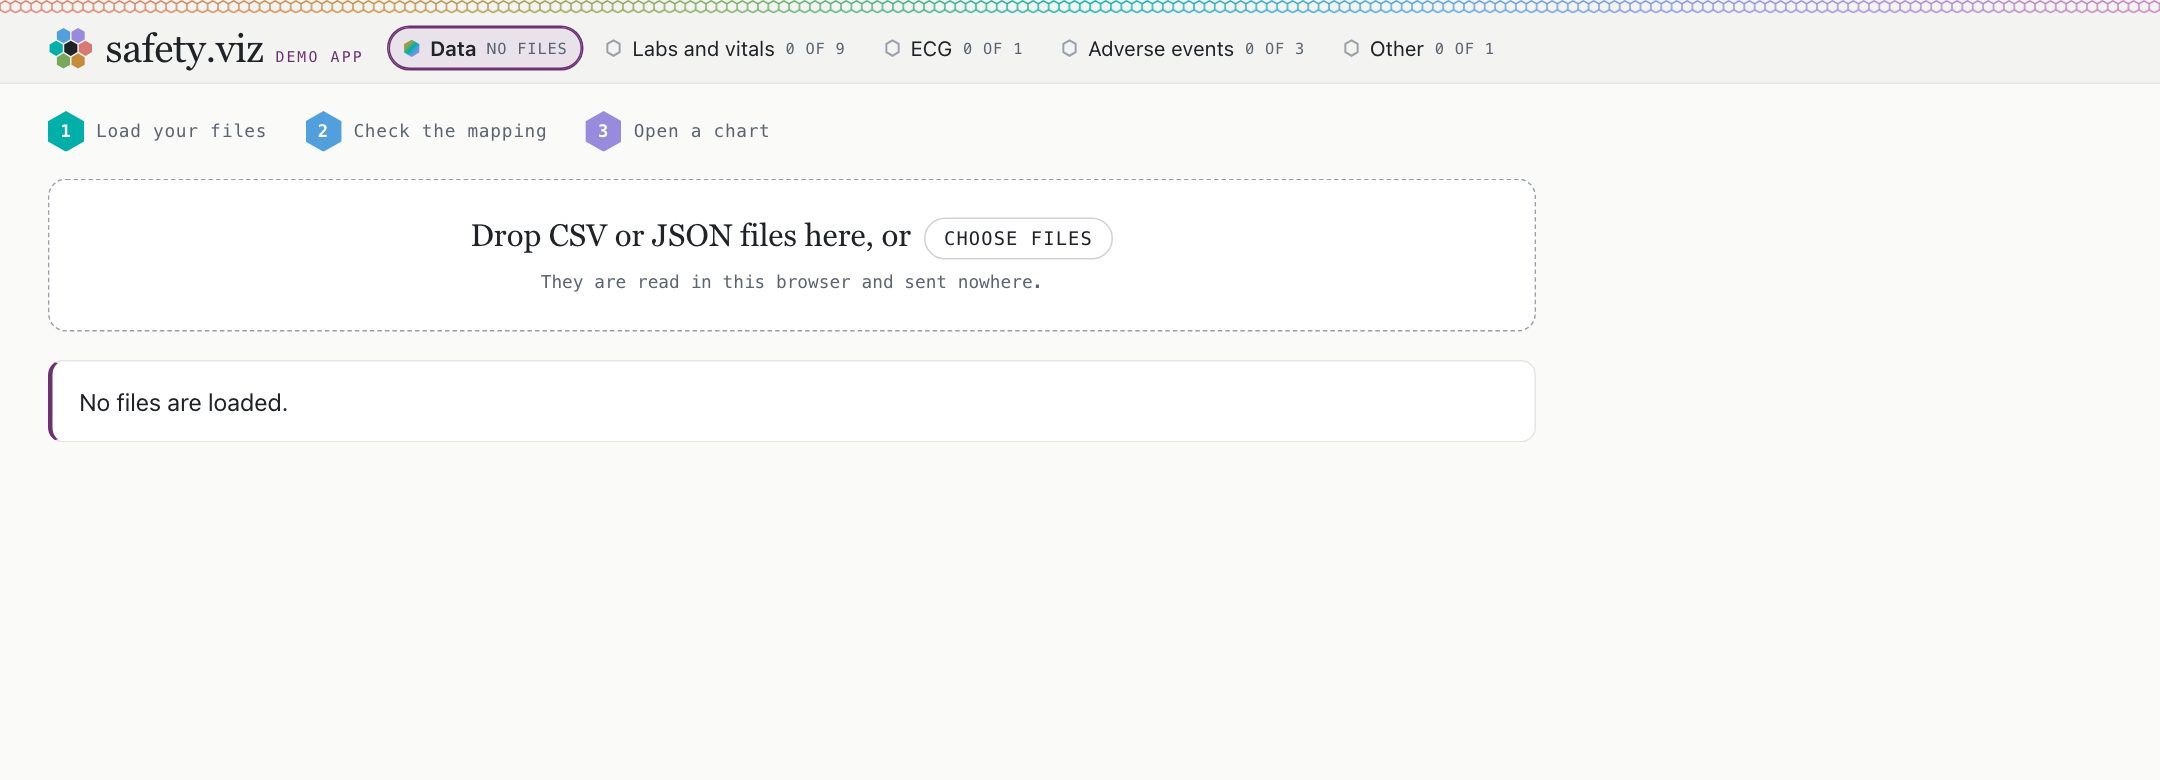
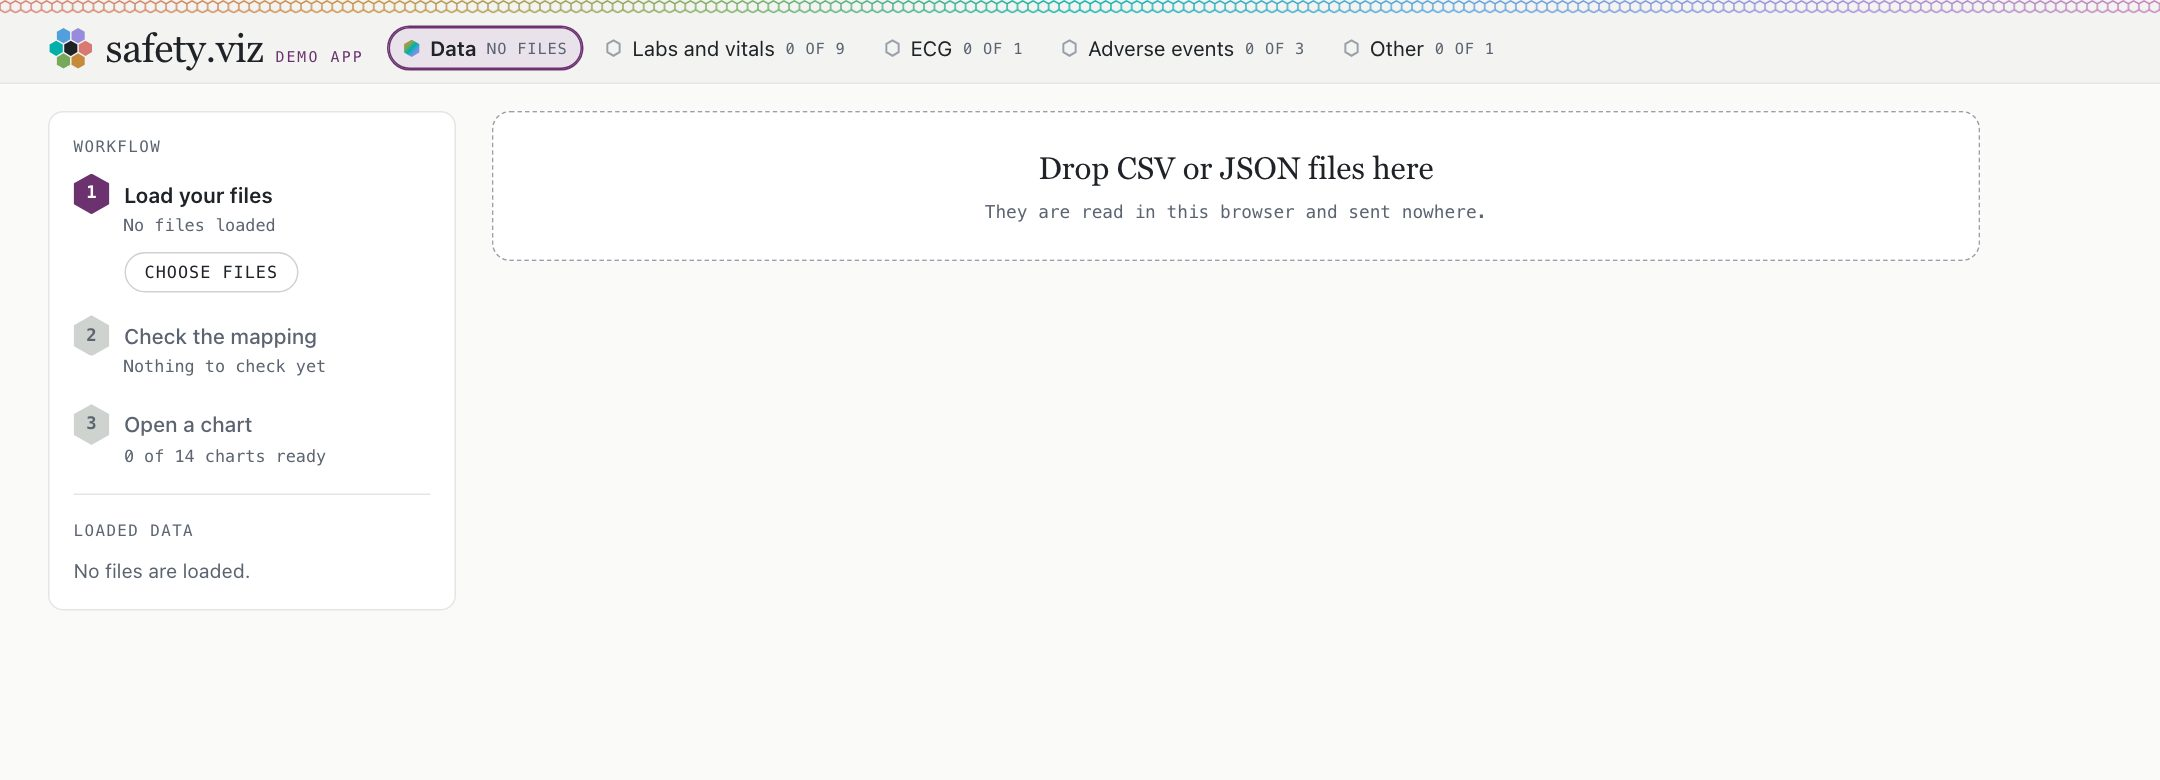
v1.8.0 demo: re-capture the Data view with its sidebar, Reset and demo studies
The demo app's Data view changed in safety.viz#160 (task #159): a sidebar
with the three workflow steps and the loaded files, a Reset, and a menu of
three demo studies. Four stills re-captured from the dev site at 31babe0,
one of them new (data-sidebar); captions, alt text and the try-it steps
follow. capture.mjs takes the new still and clicks Reset before loading the
renamed-column study, so its files arrive on an empty view.

diff --git a/reports/sv-v1.8-demo/index.html b/reports/sv-v1.8-demo/index.html
@@ -201,18 +201,23 @@ footer a{color:var(--mute);border-bottom-color:var(--rule2)}
   </div>
 </section>
 
-<div class="cut"><span>sv#151–#152 <em>· hub#352</em></span></div><section id="load">
+<div class="cut"><span>sv#151–#152, #159 <em>· hub#352</em></span></div><section id="load">
   <div class="hd"><h2>Load your own study</h2></div>
-  <p class="what">Drop CSV or JSON files on the Data view. Each file is read in the browser and placed in a domain by its column names, with the number of that domain’s columns it carries. A test asserts that no network request leaves the page from the first file onward.</p>
+  <p class="what">Drop CSV or JSON files on the Data view. Each file is read in the browser and placed in a domain by its column names, with the number of that domain’s columns it carries. A sidebar keeps the work in sight: three steps, each showing where it stands, and the list of loaded files. A test asserts that no network request leaves the page from the first file onward.</p>
 
   <figure>
-    <div class="frame"><img src="media/load-placed.jpg" alt="The Data view after dropping five files: a note that site_notes.csv was not placed in a domain, the drop zone, and a card for dm.csv placed in Subject-level with 3 of 7 columns found and its mapping table." loading="lazy" width="1440" height="900"></div>
-    <p class="cap">A study whose columns carry none of the default names. Four files are placed; the fifth belongs to no domain, and the page says so in one sentence and keeps it, with a picker to place it by hand.</p>
+    <div class="frame"><img src="media/data-sidebar.jpg" alt="The Data view on the pilot demo study. A sidebar on the left lists three steps: Load your files, done, with a demo study menu reading Pilot study, a sentence describing the study, and Choose files and Reset buttons; Check the mapping, current, reading 4 guessed, 0 needed by a chart, with a Download mapping button; and Open a chart, reading 13 of 14 charts ready, with an Open first chart button. Beneath them the four loaded files are listed, adbds.csv flagged 4 guessed. To the right are the drop zone and the mapping table for adsl.csv." loading="lazy" width="1440" height="900"></div>
+    <p class="cap">The Data view as it opens. The sidebar’s three steps carry their own buttons, and the list beneath them flags a file only when one of its rows wants a look. The demo study menu offers three studies: the pilot study, a renamed-column study, and a labs-only liver cohort. The pilot study’s description says its labs file carries 110 synthetic liver and kidney participants who are in no other file. Chart views have no sidebar.</p>
   </figure>
 
   <figure>
-    <div class="frame"><img src="media/load-mapping.jpg" alt="The mapping table for labs_final.csv: rows such as Participant mapped to SUBJID and Measure to LBTEST marked guessed, Sex and Race marked same name, Upper limit of normal empty and marked needed by 3 charts, and key measure rows such as ALT is called ALT (SGPT)." loading="lazy" width="1440" height="900"></div>
-    <p class="cap">One table per file: what the charts need on the left, your column on the right. A row filled because the name matched says “same name”. A row filled from a short list of known SDTM and ADaM alternatives says “guessed”. Nothing fuzzier is attempted. An empty row says how many charts need it. The same table asks what your data calls the measures some charts find by name.</p>
+    <div class="frame"><img src="media/load-placed.jpg" alt="The Data view after Reset and then choosing five files: a note that site_notes.csv was not placed in a domain; the sidebar reading 4 files loaded, 23 guessed, 6 needed by a chart, and 7 of 14 charts ready, with each file flagged by its guessed and needed rows and site_notes.csv listed as not placed; and a card for dm.csv placed in Subject-level with 3 of 7 columns found and its mapping table." loading="lazy" width="1440" height="900"></div>
+    <p class="cap">A study whose columns carry none of the default names, loaded after Reset. Four files are placed; the fifth belongs to no domain, and the page says so in one sentence and keeps it, with a picker to place it by hand. The sidebar counts what is left to do: 23 rows guessed, and six rows that a chart is waiting on.</p>
+  </figure>
+
+  <figure>
+    <div class="frame"><img src="media/load-mapping.jpg" alt="The mapping table for labs_final.csv beside the sidebar: rows such as Participant mapped to SUBJID and Measure to LBTEST marked guessed, Sex and Race marked same name, Upper limit of normal empty and marked needed by 3 charts, and key measure rows such as ALT is called ALT (SGPT). In the sidebar labs_final.csv is flagged 8 guessed, 3 needed." loading="lazy" width="1440" height="900"></div>
+    <p class="cap">One table per file: what the charts need on the left, your column on the right. A row filled because the name matched says “same name”. A row filled from a short list of known SDTM and ADaM alternatives says “guessed”. Nothing fuzzier is attempted. An empty row says how many charts need it. The same table asks what your data calls the measures some charts find by name. The sidebar stays in view as the tables scroll, and choosing a file there jumps to its table.</p>
   </figure>
 
   <div class="pair">
@@ -227,8 +232,8 @@ footer a{color:var(--mute);border-bottom-color:var(--rule2)}
   </div>
 
   <figure>
-    <div class="frame"><img src="media/file-empty.jpg" alt="The single-file build opened from disk: the same header with every domain tab at zero, the three steps Load your files, Check the mapping and Open a chart, the drop zone, and the message No files are loaded." loading="lazy" width="1440" height="520"></div>
-    <p class="cap">The same app as one HTML file, under 1 MB, opened from disk with the network off. It starts empty and uses your system’s fonts, because it loads nothing.</p>
+    <div class="frame"><img src="media/file-empty.jpg" alt="The single-file build opened from disk: the same header with every domain tab at zero; the sidebar with the three steps Load your files, Check the mapping and Open a chart, a Choose files button, no demo study menu, and the message No files are loaded; and the drop zone." loading="lazy" width="1440" height="520"></div>
+    <p class="cap">The same app as one HTML file, under 1 MB, opened from disk with the network off. It starts empty, offers no demo studies, and uses your system’s fonts, because it loads nothing.</p>
   </figure>
 
   <div class="note">
@@ -249,12 +254,13 @@ footer a{color:var(--mute);border-bottom-color:var(--rule2)}
       <p class="lbl">Try it</p>
       <a class="golink" href="https://jwildfire.github.io/safety.viz/dev/demo/#data"><span>Open the Data view</span></a>
       <ol>
-        <li>Save these four files: <a href="https://raw.githubusercontent.com/jwildfire/safety.viz/dev/tests/e2e/fixtures/app/labs_final.csv">labs_final.csv</a>, <a href="https://raw.githubusercontent.com/jwildfire/safety.viz/dev/tests/e2e/fixtures/app/dm.csv">dm.csv</a>, <a href="https://raw.githubusercontent.com/jwildfire/safety.viz/dev/tests/e2e/fixtures/app/ae.csv">ae.csv</a>, <a href="https://raw.githubusercontent.com/jwildfire/safety.viz/dev/tests/e2e/fixtures/app/ecg.json">ecg.json</a>.</li>
-        <li>Drop them on the drop zone. The header drops to 7 of 14 charts across its tabs.</li>
-        <li>Under labs_final.csv set Upper limit of normal to ULN, Treatment arm to TREATMENT, and Total bilirubin to Tot. Bilirubin.</li>
-        <li>Set Treatment arm to TREATMENT under ae.csv and ecg.json, and End-of-study day to LASTDAY under dm.csv.</li>
-        <li>Open Labs and vitals, then Hepatic Explorer.</li>
-        <li>In the footer, choose Download as one file, open it from your disk, and do the same there.</li>
+        <li>In the sidebar’s demo study menu choose Renamed columns. The sidebar reads 23 guessed, 6 needed by a chart, and 7 of 14 charts ready.</li>
+        <li>Click labs_final.csv in the sidebar. In its table set Upper limit of normal to ULN, Treatment arm to TREATMENT, and Total bilirubin to Tot. Bilirubin.</li>
+        <li>Set Treatment arm to TREATMENT under ae.csv and ecg.json, and End-of-study day to LASTDAY under dm.csv. The sidebar now reads 0 needed by a chart and 13 of 14 charts ready.</li>
+        <li>Click Open first chart, then Hepatic Explorer in the row of charts.</li>
+        <li>Back on Data, click Reset, then choose Liver cohort, labs only: one file, and the charts of the other domains say they have no file.</li>
+        <li>To load the same study as files of your own, save <a href="https://raw.githubusercontent.com/jwildfire/safety.viz/dev/tests/e2e/fixtures/app/labs_final.csv">labs_final.csv</a>, <a href="https://raw.githubusercontent.com/jwildfire/safety.viz/dev/tests/e2e/fixtures/app/dm.csv">dm.csv</a>, <a href="https://raw.githubusercontent.com/jwildfire/safety.viz/dev/tests/e2e/fixtures/app/ae.csv">ae.csv</a> and <a href="https://raw.githubusercontent.com/jwildfire/safety.viz/dev/tests/e2e/fixtures/app/ecg.json">ecg.json</a>, click Reset, and drop them on the drop zone.</li>
+        <li>In the footer, choose Download as one file, open it from your disk, and drop the four files there.</li>
       </ol>
     </div>
   </div>

diff --git a/reports/sv-v1.8-demo/README.md b/reports/sv-v1.8-demo/README.md
@@ -1,12 +1,12 @@
 # safety.viz v1.8.0 — annotated demo
 
-Walkthrough of what v1.8.0 adds, built as the review surface for the v1.8.0 release-candidate PR (dev → main, safety.viz [#158](https://github.com/jwildfire/safety.viz/pull/158)). Captures taken 2026-10-02 with Playwright against the live dev deploy of safety.viz at commit `1c62598`, the build the release candidate promotes. The sections cover:
+Walkthrough of what v1.8.0 adds, built as the review surface for the v1.8.0 release-candidate PR (dev → main, safety.viz [#158](https://github.com/jwildfire/safety.viz/pull/158)). Captures taken 2026-10-02 with Playwright against the live dev deploy of safety.viz at commit `1c62598`, the build the release candidate promotes; the four Data view stills (`data-sidebar`, `load-placed`, `load-mapping`, `file-empty`) were re-captured the same day at commit `31babe0`, after the Data view gained its sidebar, Reset and demo studies (safety.viz [#160](https://github.com/jwildfire/safety.viz/pull/160)). The sections cover:
 
-- the demo app and loading your own study (hub [#352](https://github.com/jwildfire/obot.roadmap/issues/352), on the standard domain set of hub [#325](https://github.com/jwildfire/obot.roadmap/issues/325); safety.viz [#155](https://github.com/jwildfire/safety.viz/pull/155));
+- the demo app and loading your own study (hub [#352](https://github.com/jwildfire/obot.roadmap/issues/352), on the standard domain set of hub [#325](https://github.com/jwildfire/obot.roadmap/issues/325); safety.viz [#155](https://github.com/jwildfire/safety.viz/pull/155), [#160](https://github.com/jwildfire/safety.viz/pull/160));
 - the Patient Journey Explorer and its narratives (hub [#349](https://github.com/jwildfire/obot.roadmap/issues/349), [#351](https://github.com/jwildfire/obot.roadmap/issues/351));
 - the nine legacy-tracker requests (safety.viz [#136](https://github.com/jwildfire/safety.viz/issues/136)).
 
-The "load your own study" captures use the renamed-column study committed in safety.viz under `tests/e2e/fixtures/app/`, loaded through the page's own file input, with six mapping rows set by hand. The single-file capture is the file served at `dev/demo/safety.viz-app.html`, saved and opened from disk with the network off.
+The "load your own study" captures use the renamed-column study committed in safety.viz under `tests/e2e/fixtures/app/`, loaded through the page's own file input after Reset clears the pilot demo study, with six mapping rows set by hand. The single-file capture is the file served at `dev/demo/safety.viz-app.html`, saved and opened from disk with the network off.
 
 Media: 1.5× JPEG stills under `media/`.
 
